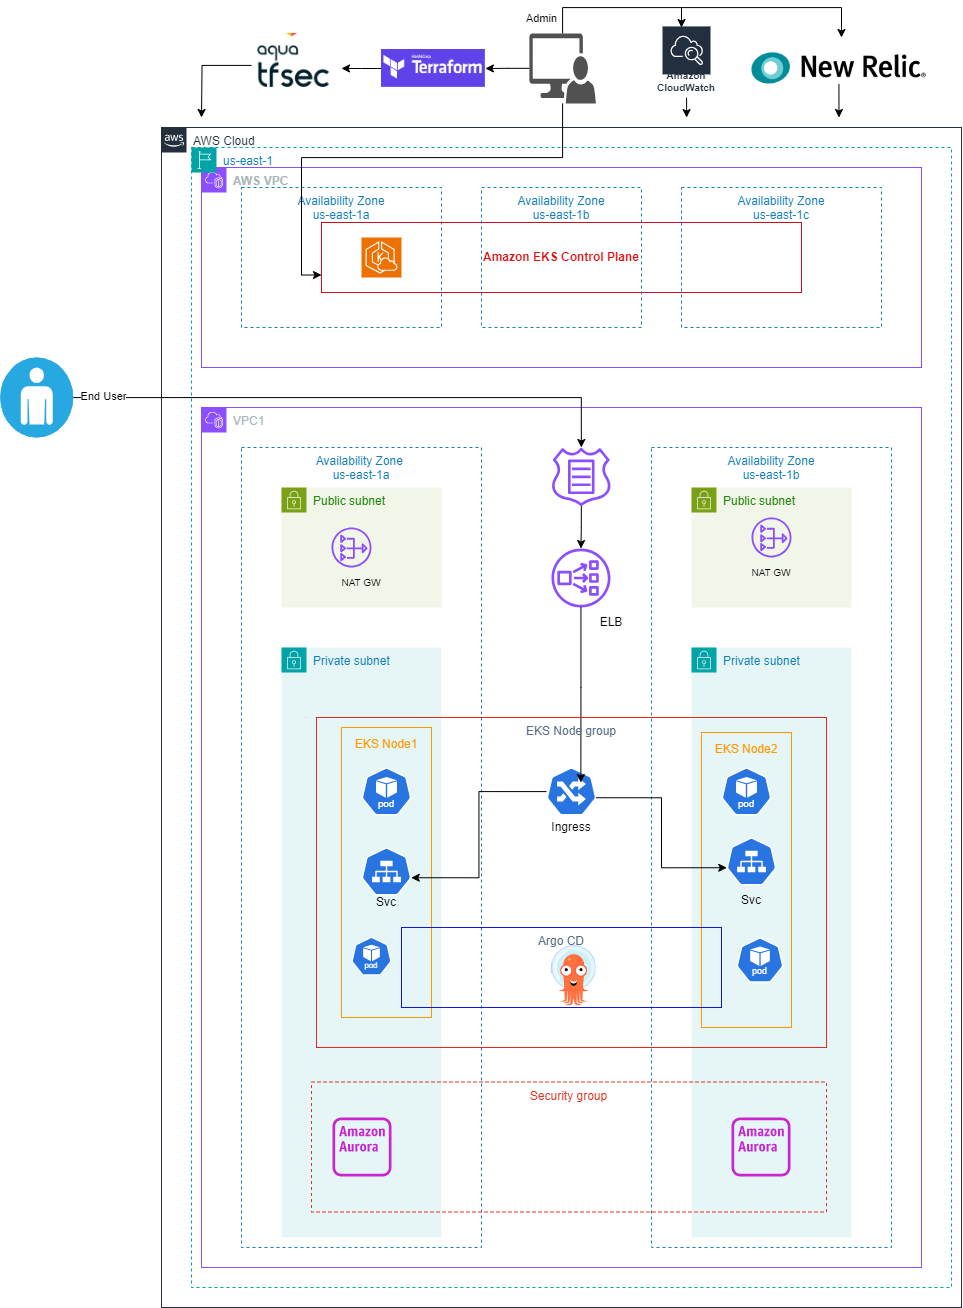
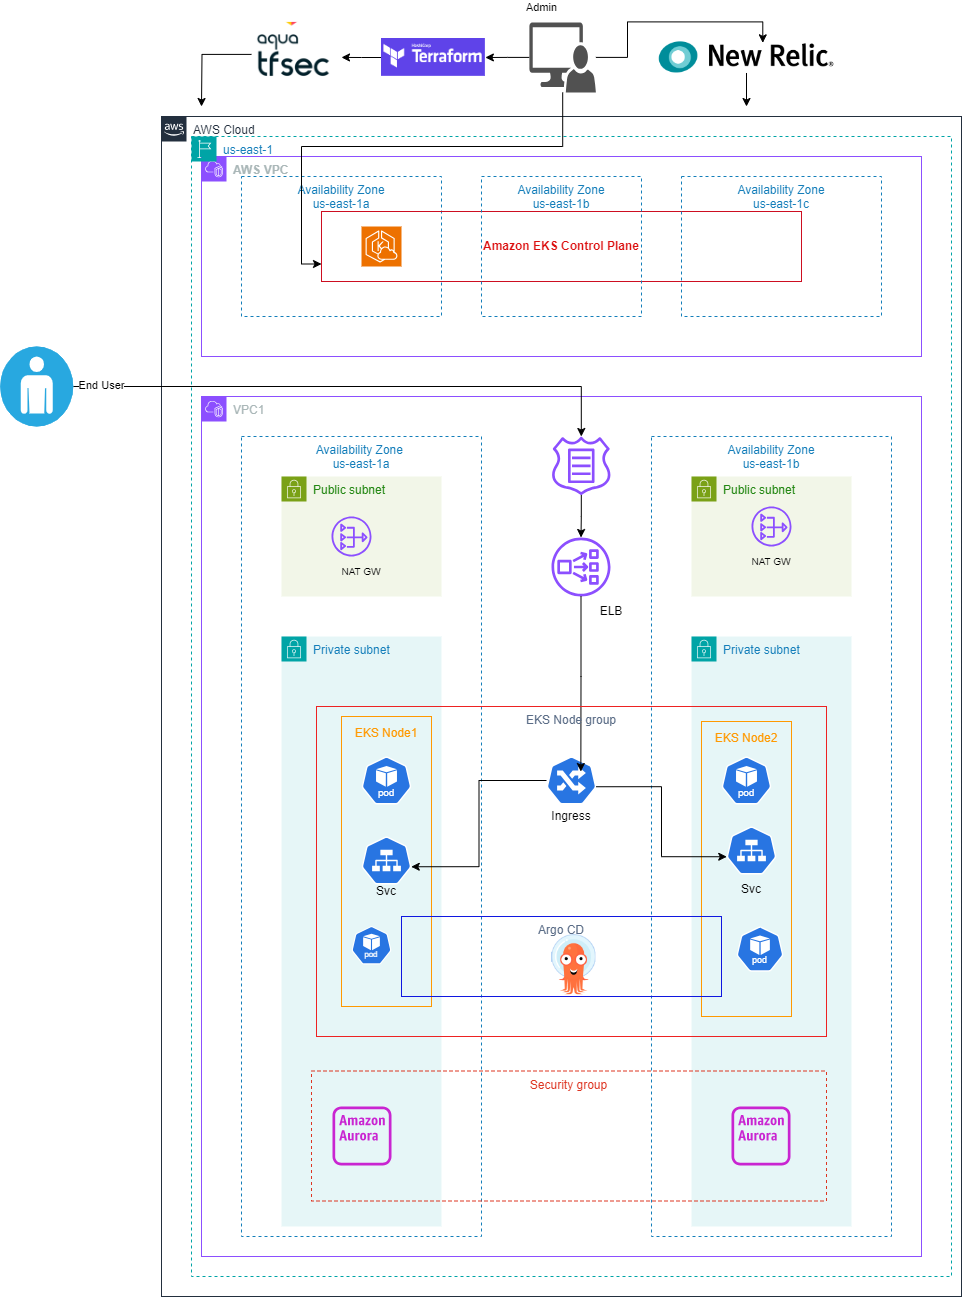
Initial Commit

diff --git a/Overview.md b/Overview.md
@@ -82,12 +82,12 @@ Continuos Integration process is managed by using Jenkins Pipeline to build, tes
 Below architecture diagram gives the high level overview of the process and tools involved. 
 
 - AWS infrastructure including EKS and other services are created by using Terraform and scanned by TFSec for security check. 
-- ArgoCD is pull and gitops based CD tool used for deployment whenever changes in source repo which support kubernetes manifest, Helm manifest and Kustomize.
-- For monitoring, Cloudwatch is natively support in AWS and easy integration with EKS. New Relic gives the  dashboard and support both onprem and cloud.
+- ArgoCD is pull and gitops based CD tool used for deployment whenever changes in source repo which support kubernetes manifest, Helm template and Kustomize.
+- For monitoring, New Relic gives the  dashboard and support both onprem and cloud.
 - Kubernetes resource objects like deployment, service are created and templatized using HELM.
 - For front end and backend application, deployed using deployment and exposed through service
-- Services are exposed through ingress and access by external customer.
-- For database, AWS Aurora provides 5 time faster than postgresql.
+- Services are exposed through ingress and access by end customer.
+- For database, AWS Aurora provides 3 time faster than postgresql.
 
 ![Alt text](EKS.png)
 
